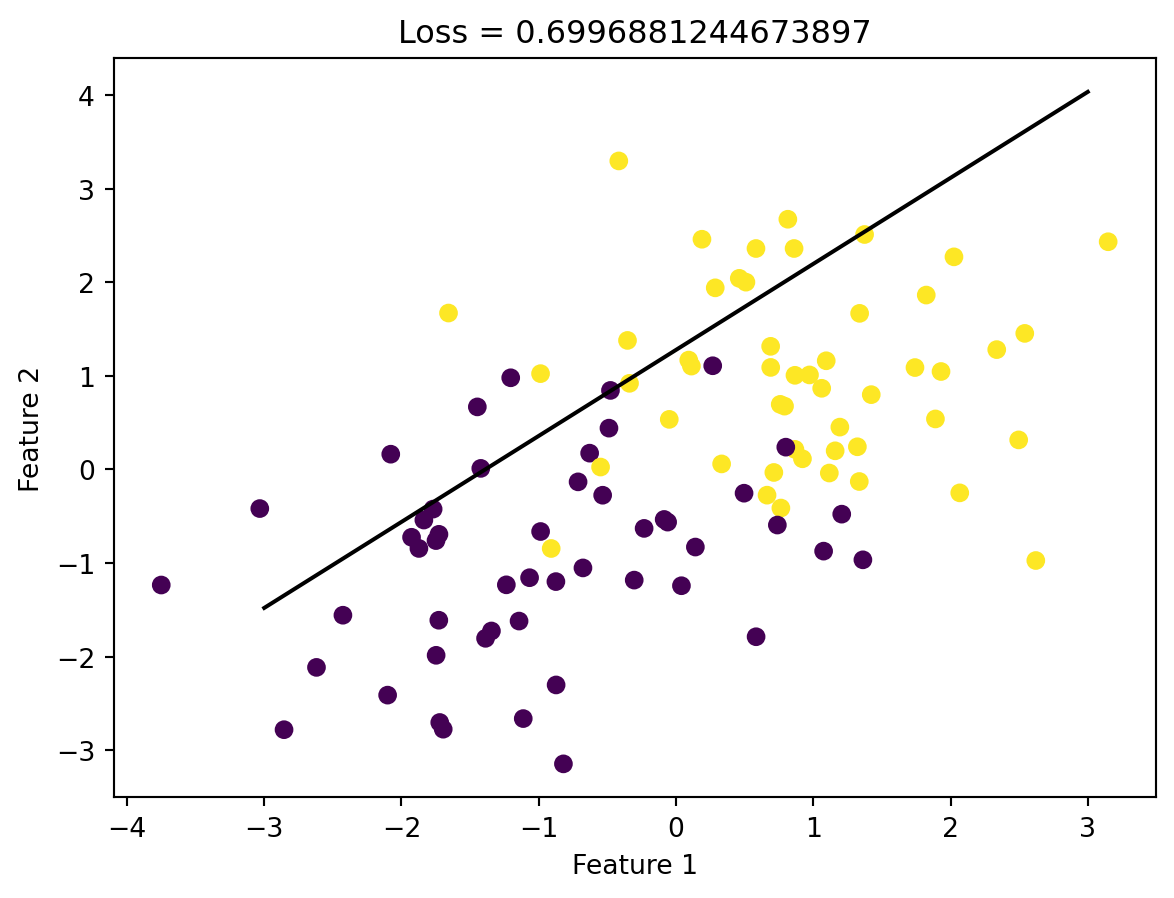
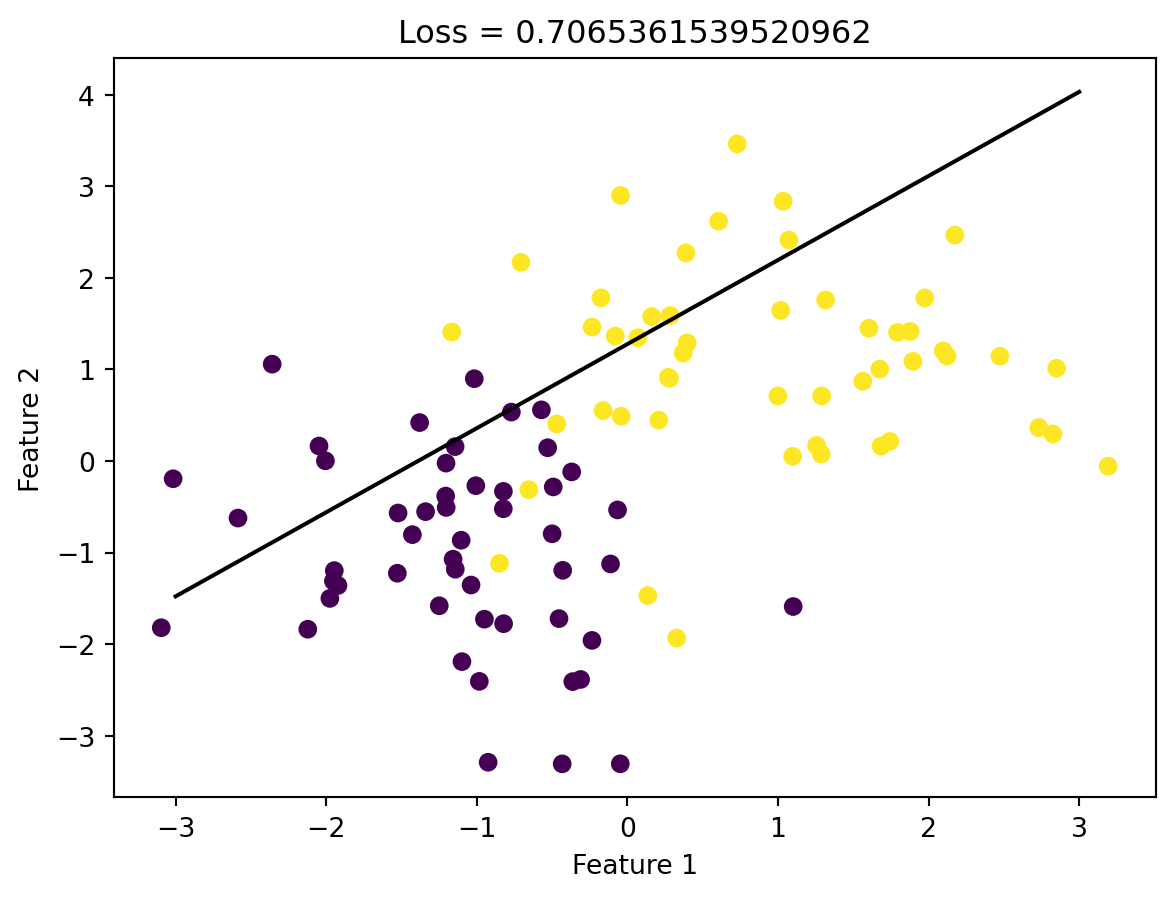
update gradient descent notes

diff --git a/docs/lecture-notes/gradient-descent.html b/docs/lecture-notes/gradient-descent.html
@@ -181,6 +181,7 @@ code span.wa { color: #60a0b0; font-weight: bold; font-style: italic; } /* Warni
   <ul class="collapse">
   <li><a href="#gradients" id="toc-gradients" class="nav-link" data-scroll-target="#gradients">Gradients</a></li>
   <li><a href="#gradient-descent-for-empirical-risk-minimization" id="toc-gradient-descent-for-empirical-risk-minimization" class="nav-link" data-scroll-target="#gradient-descent-for-empirical-risk-minimization">Gradient Descent For Empirical Risk Minimization</a></li>
+  <li><a href="#activity" id="toc-activity" class="nav-link" data-scroll-target="#activity">Activity</a></li>
   </ul></li>
   </ul>
 </nav>
@@ -392,7 +393,7 @@ Algorithm: (Batch) Gradient Descent
 \nabla L(\mathbf{w}) &amp;= \nabla \left(\frac{1}{n} \sum_{i = 1}^n \ell(f_{\mathbf{w}}(\mathbf{x}_i), y_i)\right) \\
               &amp;= \frac{1}{n} \sum_{i = 1}^n \nabla \ell(f_{\mathbf{w}}(\mathbf{x}_i), y_i) \\
               &amp;= \frac{1}{n} \sum_{i = 1}^n  \frac{d\ell(\hat{y}_i, y_i)}{d\hat{y}} \nabla f_{\mathbf{w}}(\mathbf{x}_i) \tag{multivariate chain rule} \\
-              &amp;= \frac{1}{n} \sum_{i = 1}^n  \frac{d\ell(\hat{y}_i, y_i)}{d\hat{y}} \nabla \mathbf{x}_i \tag{gradient of a linear function} \\
+              &amp;= \frac{1}{n} \sum_{i = 1}^n  \frac{d\ell(\hat{y}_i, y_i)}{d\hat{y}}  \mathbf{x}_i \tag{gradient of a linear function} \\
               &amp;= \frac{1}{n} \sum_{i = 1}^n  \frac{d\ell(\langle \mathbf{w}, \mathbf{x}_i \rangle, y_i)}{d\hat{y}} \mathbf{x}_i \tag{$\hat{y}_i = \langle \mathbf{w}, \mathbf{x}_i \rangle$} \\
 \end{align}
 \]</span></p>
@@ -492,16 +493,19 @@ Algorithm: (Batch) Gradient Descent
 <span id="cb5-5"><a href="#cb5-5" aria-hidden="true" tabindex="-1"></a>done <span class="op">=</span> <span class="va">False</span>       <span class="co"># initialize for while loop</span></span>
 <span id="cb5-6"><a href="#cb5-6" aria-hidden="true" tabindex="-1"></a>prev_loss <span class="op">=</span> np.inf <span class="co"># handy way to start off the loss</span></span>
 <span id="cb5-7"><a href="#cb5-7" aria-hidden="true" tabindex="-1"></a></span>
-<span id="cb5-8"><a href="#cb5-8" aria-hidden="true" tabindex="-1"></a><span class="co"># main loop</span></span>
-<span id="cb5-9"><a href="#cb5-9" aria-hidden="true" tabindex="-1"></a><span class="cf">while</span> <span class="kw">not</span> done: </span>
-<span id="cb5-10"><a href="#cb5-10" aria-hidden="true" tabindex="-1"></a>    w <span class="op">-=</span> alpha<span class="op">*</span>gradient(w, X_, y)                      <span class="co"># gradient step</span></span>
-<span id="cb5-11"><a href="#cb5-11" aria-hidden="true" tabindex="-1"></a>    new_loss <span class="op">=</span> empirical_risk(X_, y, logistic_loss, w) <span class="co"># compute loss</span></span>
-<span id="cb5-12"><a href="#cb5-12" aria-hidden="true" tabindex="-1"></a>    </span>
-<span id="cb5-13"><a href="#cb5-13" aria-hidden="true" tabindex="-1"></a>    <span class="co"># check if loss hasn't changed and terminate if so</span></span>
-<span id="cb5-14"><a href="#cb5-14" aria-hidden="true" tabindex="-1"></a>    <span class="cf">if</span> np.isclose(new_loss, prev_loss):          </span>
-<span id="cb5-15"><a href="#cb5-15" aria-hidden="true" tabindex="-1"></a>        done <span class="op">=</span> <span class="va">True</span></span>
-<span id="cb5-16"><a href="#cb5-16" aria-hidden="true" tabindex="-1"></a>    <span class="cf">else</span>:</span>
-<span id="cb5-17"><a href="#cb5-17" aria-hidden="true" tabindex="-1"></a>        prev_loss <span class="op">=</span> new_loss</span></code><button title="Copy to Clipboard" class="code-copy-button"><i class="bi"></i></button></pre></div>
+<span id="cb5-8"><a href="#cb5-8" aria-hidden="true" tabindex="-1"></a>history <span class="op">=</span> []</span>
+<span id="cb5-9"><a href="#cb5-9" aria-hidden="true" tabindex="-1"></a></span>
+<span id="cb5-10"><a href="#cb5-10" aria-hidden="true" tabindex="-1"></a><span class="co"># main loop</span></span>
+<span id="cb5-11"><a href="#cb5-11" aria-hidden="true" tabindex="-1"></a><span class="cf">while</span> <span class="kw">not</span> done: </span>
+<span id="cb5-12"><a href="#cb5-12" aria-hidden="true" tabindex="-1"></a>    w <span class="op">-=</span> alpha<span class="op">*</span>gradient(w, X_, y)                      <span class="co"># gradient step</span></span>
+<span id="cb5-13"><a href="#cb5-13" aria-hidden="true" tabindex="-1"></a>    new_loss <span class="op">=</span> empirical_risk(X_, y, logistic_loss, w) <span class="co"># compute loss</span></span>
+<span id="cb5-14"><a href="#cb5-14" aria-hidden="true" tabindex="-1"></a>    </span>
+<span id="cb5-15"><a href="#cb5-15" aria-hidden="true" tabindex="-1"></a>    history.append(new_loss)</span>
+<span id="cb5-16"><a href="#cb5-16" aria-hidden="true" tabindex="-1"></a>    <span class="co"># check if loss hasn't changed and terminate if so</span></span>
+<span id="cb5-17"><a href="#cb5-17" aria-hidden="true" tabindex="-1"></a>    <span class="cf">if</span> np.isclose(new_loss, prev_loss):          </span>
+<span id="cb5-18"><a href="#cb5-18" aria-hidden="true" tabindex="-1"></a>        done <span class="op">=</span> <span class="va">True</span></span>
+<span id="cb5-19"><a href="#cb5-19" aria-hidden="true" tabindex="-1"></a>    <span class="cf">else</span>:</span>
+<span id="cb5-20"><a href="#cb5-20" aria-hidden="true" tabindex="-1"></a>        prev_loss <span class="op">=</span> new_loss</span></code><button title="Copy to Clipboard" class="code-copy-button"><i class="bi"></i></button></pre></div>
 </div>
 <p>Now we can visualize the resulting classifier and check the value of the loss that it achieves.</p>
 <div class="cell" data-execution_count="6">
@@ -509,20 +513,45 @@ Algorithm: (Batch) Gradient Descent
 <summary>Code</summary>
 <div class="sourceCode cell-code" id="cb6"><pre class="sourceCode python code-with-copy"><code class="sourceCode python"><span id="cb6-1"><a href="#cb6-1" aria-hidden="true" tabindex="-1"></a>loss <span class="op">=</span> empirical_risk(X_, y, logistic_loss, w)</span>
 <span id="cb6-2"><a href="#cb6-2" aria-hidden="true" tabindex="-1"></a></span>
-<span id="cb6-3"><a href="#cb6-3" aria-hidden="true" tabindex="-1"></a>fig <span class="op">=</span> plt.scatter(X[:,<span class="dv">0</span>], X[:,<span class="dv">1</span>], c <span class="op">=</span> y)</span>
-<span id="cb6-4"><a href="#cb6-4" aria-hidden="true" tabindex="-1"></a>xlab <span class="op">=</span> plt.xlabel(<span class="st">"Feature 1"</span>)</span>
-<span id="cb6-5"><a href="#cb6-5" aria-hidden="true" tabindex="-1"></a>ylab <span class="op">=</span> plt.ylabel(<span class="st">"Feature 2"</span>)</span>
-<span id="cb6-6"><a href="#cb6-6" aria-hidden="true" tabindex="-1"></a></span>
-<span id="cb6-7"><a href="#cb6-7" aria-hidden="true" tabindex="-1"></a>f1 <span class="op">=</span> np.linspace(<span class="op">-</span><span class="dv">3</span>, <span class="dv">3</span>, <span class="dv">101</span>)</span>
-<span id="cb6-8"><a href="#cb6-8" aria-hidden="true" tabindex="-1"></a></span>
-<span id="cb6-9"><a href="#cb6-9" aria-hidden="true" tabindex="-1"></a>p <span class="op">=</span> plt.plot(f1, (w[<span class="dv">2</span>] <span class="op">-</span> f1<span class="op">*</span>w[<span class="dv">0</span>])<span class="op">/</span>w[<span class="dv">1</span>], color <span class="op">=</span> <span class="st">"black"</span>)</span>
-<span id="cb6-10"><a href="#cb6-10" aria-hidden="true" tabindex="-1"></a>title <span class="op">=</span> plt.gca().set_title(<span class="ss">f"Loss = </span><span class="sc">{</span>loss<span class="sc">}</span><span class="ss">"</span>)</span></code><button title="Copy to Clipboard" class="code-copy-button"><i class="bi"></i></button></pre></div>
+<span id="cb6-3"><a href="#cb6-3" aria-hidden="true" tabindex="-1"></a>fig, axarr <span class="op">=</span> plt.subplots(<span class="dv">1</span>, <span class="dv">2</span>)</span>
+<span id="cb6-4"><a href="#cb6-4" aria-hidden="true" tabindex="-1"></a></span>
+<span id="cb6-5"><a href="#cb6-5" aria-hidden="true" tabindex="-1"></a>axarr[<span class="dv">0</span>].scatter(X[:,<span class="dv">0</span>], X[:,<span class="dv">1</span>], c <span class="op">=</span> y)</span>
+<span id="cb6-6"><a href="#cb6-6" aria-hidden="true" tabindex="-1"></a>axarr[<span class="dv">0</span>].<span class="bu">set</span>(xlabel <span class="op">=</span> <span class="st">"Feature 1"</span>, ylabel <span class="op">=</span> <span class="st">"Feature 2"</span>, title <span class="op">=</span> <span class="ss">f"Loss = </span><span class="sc">{</span>loss<span class="sc">}</span><span class="ss">"</span>)</span>
+<span id="cb6-7"><a href="#cb6-7" aria-hidden="true" tabindex="-1"></a></span>
+<span id="cb6-8"><a href="#cb6-8" aria-hidden="true" tabindex="-1"></a>f1 <span class="op">=</span> np.linspace(<span class="op">-</span><span class="dv">3</span>, <span class="dv">3</span>, <span class="dv">101</span>)</span>
+<span id="cb6-9"><a href="#cb6-9" aria-hidden="true" tabindex="-1"></a></span>
+<span id="cb6-10"><a href="#cb6-10" aria-hidden="true" tabindex="-1"></a>p <span class="op">=</span> axarr[<span class="dv">0</span>].plot(f1, (w[<span class="dv">2</span>] <span class="op">-</span> f1<span class="op">*</span>w[<span class="dv">0</span>])<span class="op">/</span>w[<span class="dv">1</span>], color <span class="op">=</span> <span class="st">"black"</span>)</span>
+<span id="cb6-11"><a href="#cb6-11" aria-hidden="true" tabindex="-1"></a></span>
+<span id="cb6-12"><a href="#cb6-12" aria-hidden="true" tabindex="-1"></a>axarr[<span class="dv">1</span>].plot(history)</span>
+<span id="cb6-13"><a href="#cb6-13" aria-hidden="true" tabindex="-1"></a>axarr[<span class="dv">1</span>].<span class="bu">set</span>(xlabel <span class="op">=</span> <span class="st">"Iteration number"</span>, ylabel <span class="op">=</span> <span class="st">"Empirical Risk"</span>)</span>
+<span id="cb6-14"><a href="#cb6-14" aria-hidden="true" tabindex="-1"></a>plt.tight_layout()</span></code><button title="Copy to Clipboard" class="code-copy-button"><i class="bi"></i></button></pre></div>
 </details>
 <div class="cell-output cell-output-display">
-<p><img src="gradient-descent_files/figure-html/cell-6-output-1.png" class="" width="587" height="449"></p>
+<p><img src="gradient-descent_files/figure-html/cell-6-output-1.png" class="" width="661" height="468"></p>
 </div>
 </div>
 <p>That looks better! Note that the data is not linearly separable, but our algorithm still converged to a reasonable solution.</p>
+</section>
+<section id="activity" class="level2">
+<h2 class="anchored" data-anchor-id="activity">Activity</h2>
+<p>Consider the function <span class="math inline">\(f(w_1, w_2) = \sin(w_1w_2)\)</span>. You can define this function like this:</p>
+<div class="cell" data-execution_count="7">
+<div class="sourceCode cell-code" id="cb7"><pre class="sourceCode python code-with-copy"><code class="sourceCode python"><span id="cb7-1"><a href="#cb7-1" aria-hidden="true" tabindex="-1"></a><span class="im">import</span> numpy <span class="im">as</span> np</span>
+<span id="cb7-2"><a href="#cb7-2" aria-hidden="true" tabindex="-1"></a><span class="kw">def</span> f(x):</span>
+<span id="cb7-3"><a href="#cb7-3" aria-hidden="true" tabindex="-1"></a>    <span class="cf">return</span> np.sin(x[<span class="dv">0</span>]<span class="op">*</span>x[<span class="dv">1</span>])</span></code><button title="Copy to Clipboard" class="code-copy-button"><i class="bi"></i></button></pre></div>
+</div>
+<p>Mathematically, the gradient of this function is</p>
+<p><span class="math display">\[\nabla f(w_1, w_2) = (w_1\cos w_0w_1, w_0 \cos w_0w_1)^T.\]</span></p>
+<ol type="1">
+<li>Implement a simple loop that uses gradient descent to find a minimum of this function.
+<ul>
+<li>You’ll have to choose the learning rate <span class="math inline">\(\alpha\)</span>.</li>
+<li>The <code>np.cos()</code> function will be useful for programming the gradient.</li>
+<li>It’s not the fastest approach, but if you’re not show how to program the gradient you can always first implement it as a list of two floats, and then use <code>np.array(my_list)</code> to convert it into a numpy array.</li>
+<li>You’ll also need to pick a random starting guess.</li>
+</ul></li>
+<li>Find two initial guesses for the parameter vector <span class="math inline">\(\mathbf{w}\)</span> such that you get two <em>different</em> final minimizers (this is possible because <span class="math inline">\(f\)</span> is not convex).</li>
+</ol>
 
 
 </section>
